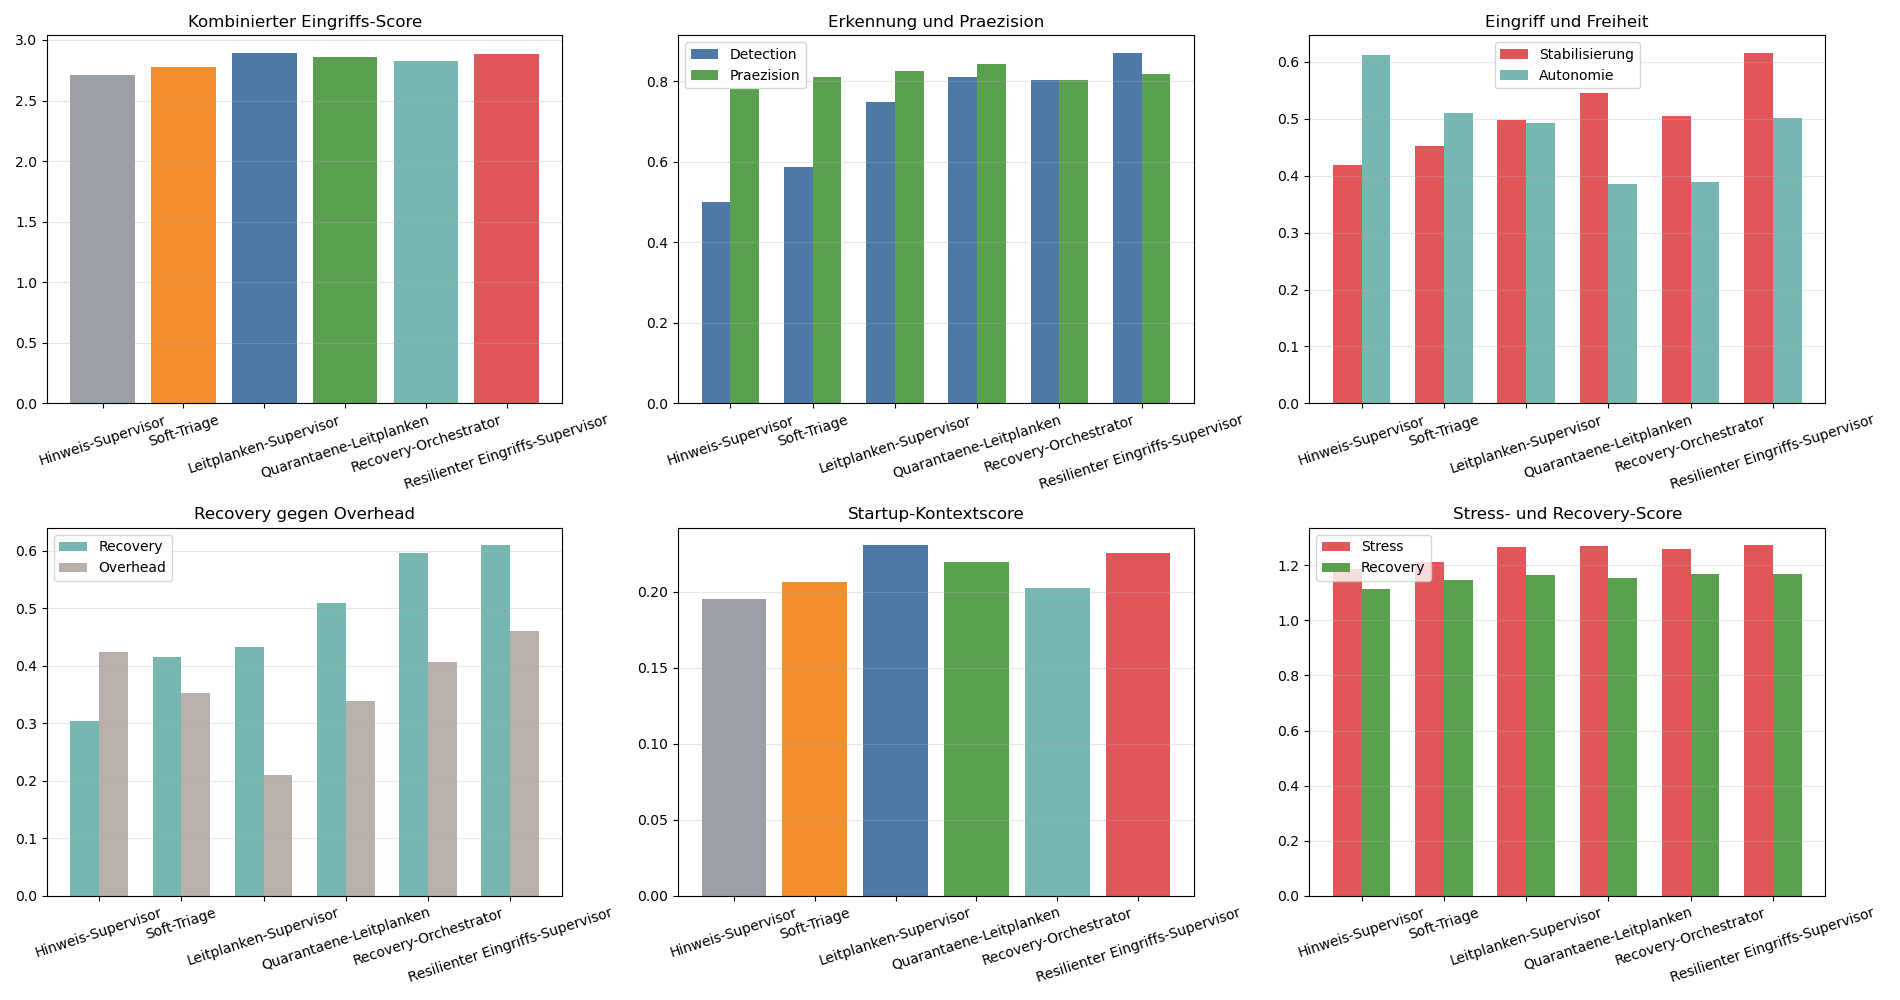
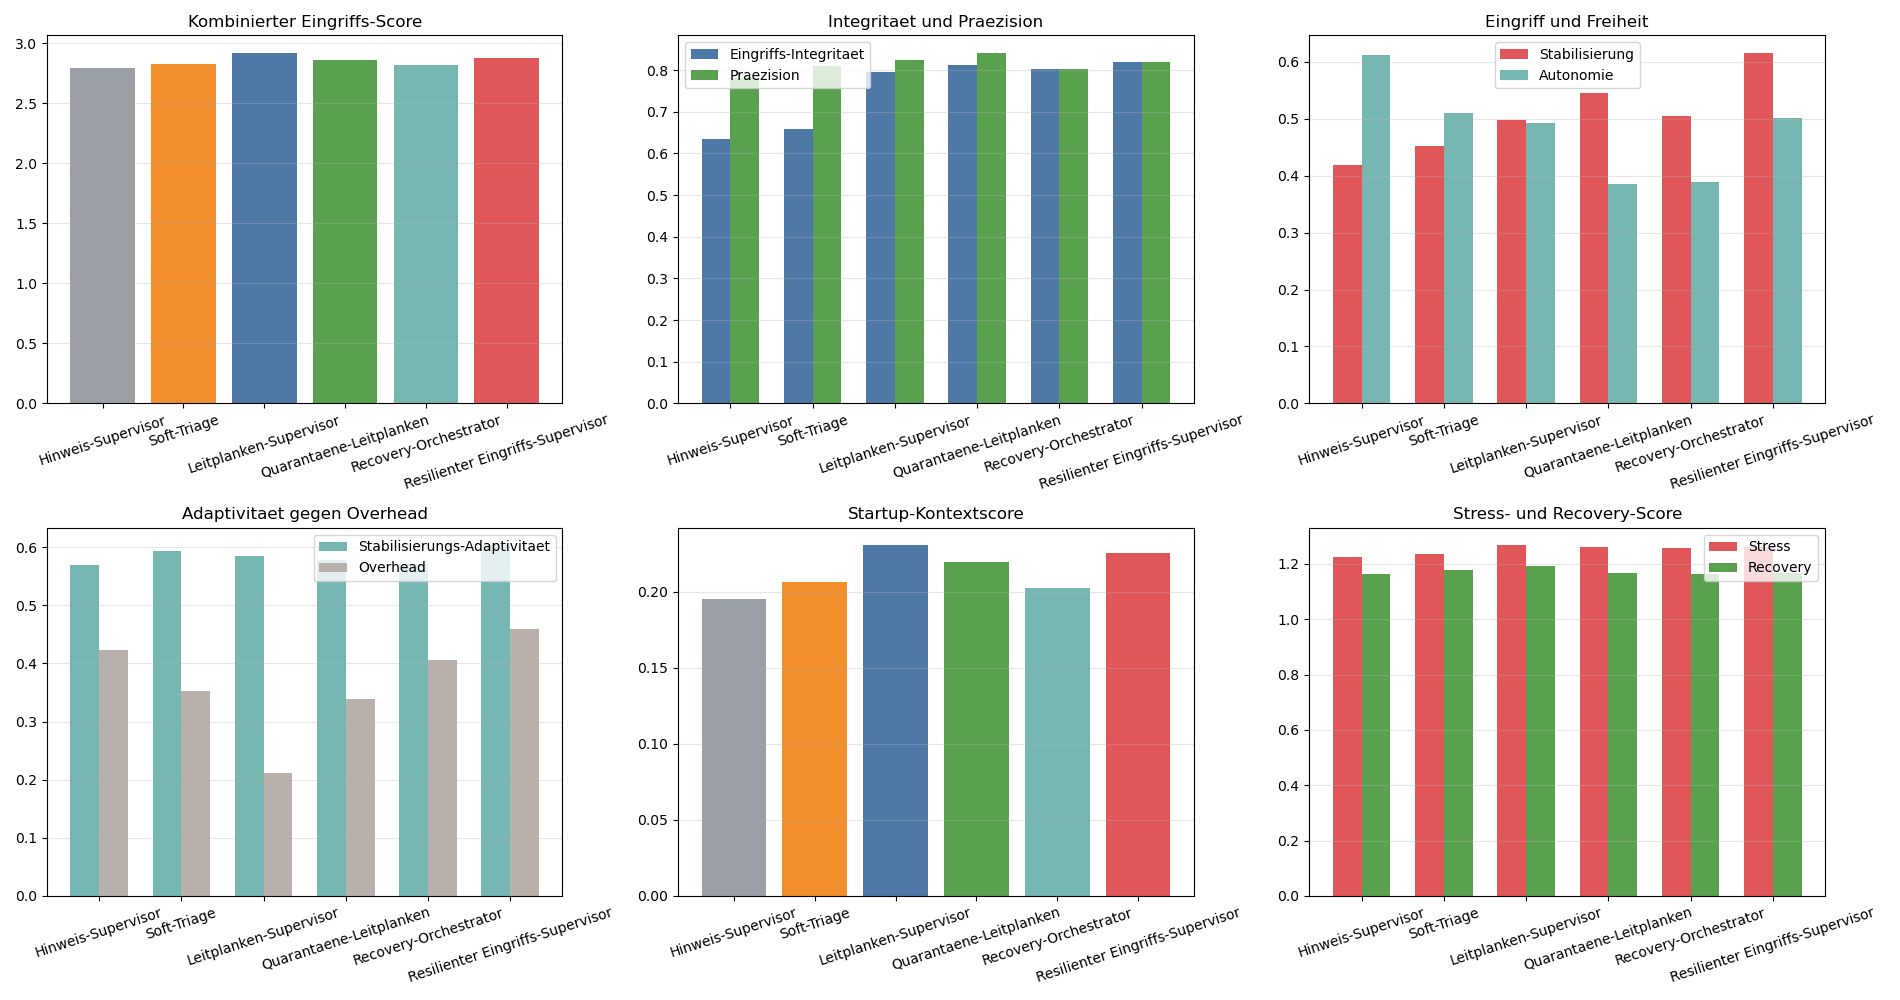
Refine supervisor intervention metrics

diff --git a/schwarm_supervisor_eingriffe.py b/schwarm_supervisor_eingriffe.py
@@ -353,6 +353,28 @@ def intervention_metrics(config, result, params, profile):
             ]
         )
     )
+    intervention_integrity = clamp01(
+        mittelwert(
+            [
+                detection_strength,
+                precision_quality,
+                1.0 - workflow.get('misinformation_corruption_mean', 0.0),
+                1.0 - workflow.get('cluster_compromise_mean', 0.0),
+                workflow.get('trust_shield_mean', 0.0),
+            ]
+        )
+    )
+    stabilization_adaptivity = clamp01(
+        mittelwert(
+            [
+                stabilization_gain,
+                recovery_strength,
+                autonomy_preservation,
+                workflow.get('sync_strength_mean', 0.0),
+                workflow.get('resource_efficiency', 0.0),
+            ]
+        )
+    )
     intervention_overhead = clamp01(
         mittelwert(
             [
@@ -385,6 +407,8 @@ def intervention_metrics(config, result, params, profile):
         'stabilization_gain': stabilization_gain,
         'autonomy_preservation': autonomy_preservation,
         'recovery_strength': recovery_strength,
+        'intervention_integrity': intervention_integrity,
+        'stabilization_adaptivity': stabilization_adaptivity,
         'intervention_overhead': intervention_overhead,
     }
 
@@ -450,16 +474,14 @@ def context_score(kontext_name, result, agent_count):
     if kontext_name == 'stress':
         return (
             base
-            + 0.16 * metrics['detection_strength']
-            + 0.14 * metrics['precision_quality']
-            + 0.10 * metrics['stabilization_gain']
-            - 0.12 * metrics['corruption_mean']
-            - 0.10 * metrics['cluster_compromise_mean']
+            + 0.16 * metrics['intervention_integrity']
+            + 0.14 * metrics['stabilization_adaptivity']
+            + 0.10 * metrics['precision_quality']
             - 0.08 * metrics['intervention_overhead']
         )
     return (
         base
-        + 0.18 * metrics['recovery_strength']
+        + 0.18 * metrics['stabilization_adaptivity']
         + 0.12 * metrics['stabilization_gain']
         + 0.08 * metrics['autonomy_preservation']
         - 0.12 * failed_share
@@ -475,6 +497,8 @@ def summarize_runs(runs, profile, context_list, agent_count):
         'stabilization_gain': {},
         'autonomy_preservation': {},
         'recovery_strength': {},
+        'intervention_integrity': {},
+        'stabilization_adaptivity': {},
         'intervention_overhead': {},
     }
 
@@ -528,9 +552,9 @@ def main():
         summaries.append(summary)
         print(
             f"{summary['label']:<31} Score={summary['combined_score']:+.3f} | "
-            f"Detect={summary['detection_strength']['stress']:.2f} | "
+            f"Integritaet={summary['intervention_integrity']['stress']:.2f} | "
             f"Autonomie={summary['autonomy_preservation']['operations']:.2f} | "
-            f"Recovery={summary['recovery_strength']['recovery']:.2f}"
+            f"Adaptivitaet={summary['stabilization_adaptivity']['recovery']:.2f}"
         )
 
     best = max(summaries, key=lambda item: item['combined_score'])
@@ -542,9 +566,9 @@ def main():
         f"Delta zum Hinweis-Supervisor {best['combined_score'] - baseline['combined_score']:+.3f}"
     )
     print(
-        f"Detection {best['detection_strength']['stress']:.2f}, "
+        f"Integritaet {best['intervention_integrity']['stress']:.2f}, "
         f"Autonomie {best['autonomy_preservation']['operations']:.2f}, "
-        f"Recovery {best['recovery_strength']['recovery']:.2f}"
+        f"Adaptivitaet {best['stabilization_adaptivity']['recovery']:.2f}"
     )
 
     labels = [item['label'] for item in summaries]
@@ -562,9 +586,9 @@ def main():
 
     axes[0, 1].bar(
         x - width / 2,
-        [item['detection_strength']['stress'] for item in summaries],
+        [item['intervention_integrity']['stress'] for item in summaries],
         width,
-        label='Detection',
+        label='Eingriffs-Integritaet',
         color='#4e79a7',
     )
     axes[0, 1].bar(
@@ -574,7 +598,7 @@ def main():
         label='Praezision',
         color='#59a14f',
     )
-    axes[0, 1].set_title('Erkennung und Praezision')
+    axes[0, 1].set_title('Integritaet und Praezision')
     axes[0, 1].set_xticks(x)
     axes[0, 1].set_xticklabels(labels, rotation=18)
     axes[0, 1].legend()
@@ -602,9 +626,9 @@ def main():
 
     axes[1, 0].bar(
         x - width / 2,
-        [item['recovery_strength']['recovery'] for item in summaries],
+        [item['stabilization_adaptivity']['recovery'] for item in summaries],
         width,
-        label='Recovery',
+        label='Stabilisierungs-Adaptivitaet',
         color='#76b7b2',
     )
     axes[1, 0].bar(
@@ -614,7 +638,7 @@ def main():
         label='Overhead',
         color='#bab0ab',
     )
-    axes[1, 0].set_title('Recovery gegen Overhead')
+    axes[1, 0].set_title('Adaptivitaet gegen Overhead')
     axes[1, 0].set_xticks(x)
     axes[1, 0].set_xticklabels(labels, rotation=18)
     axes[1, 0].legend()
